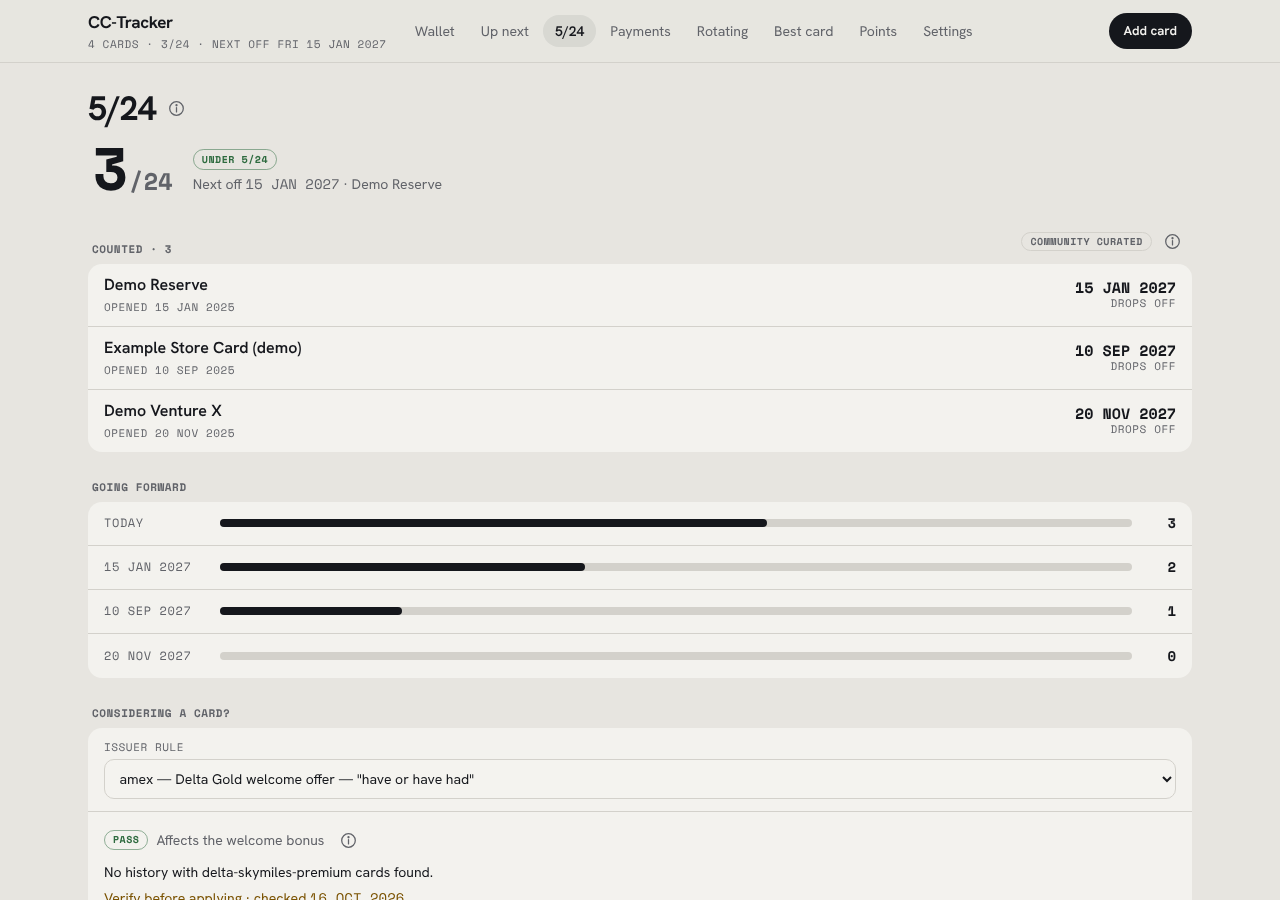
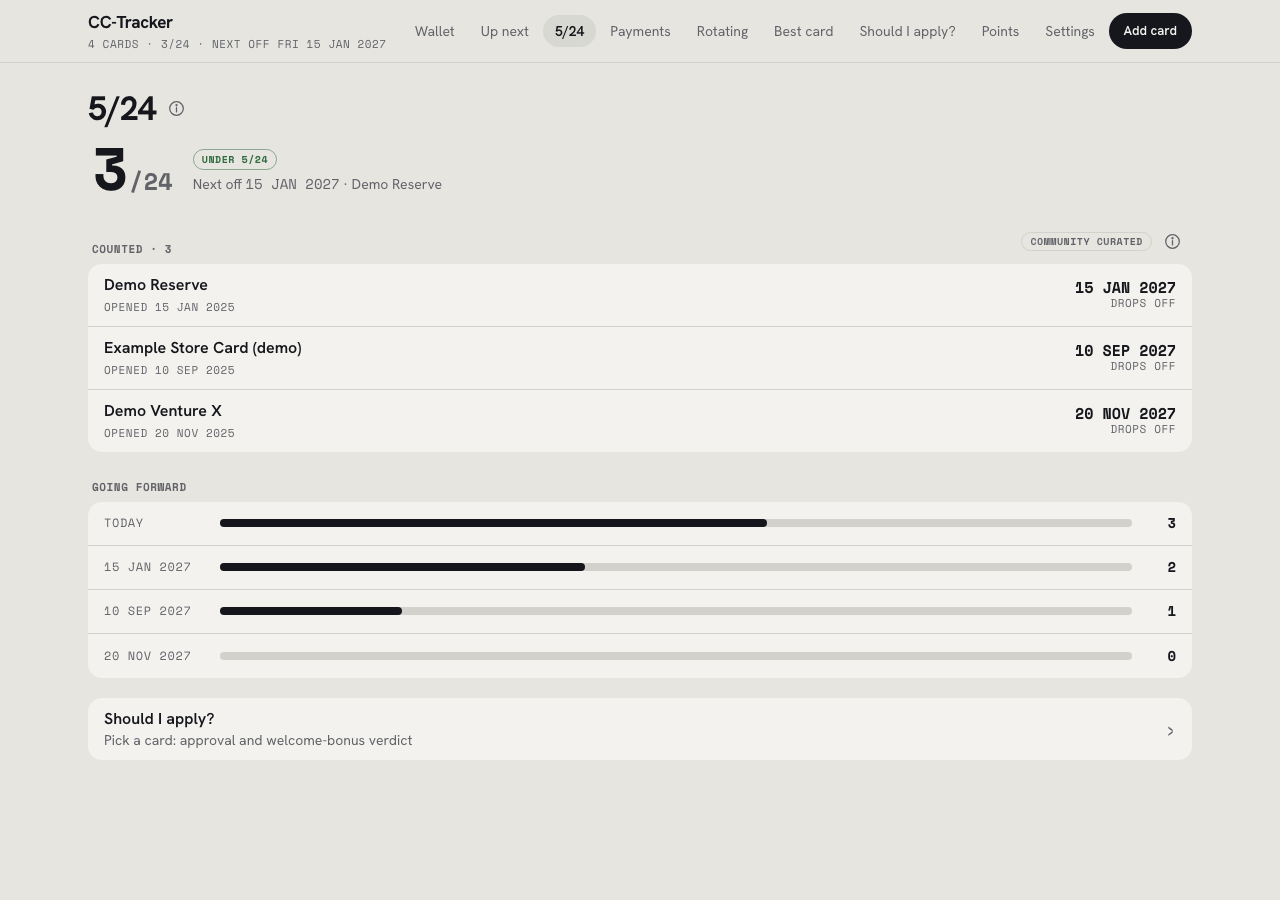
v7: finish phone feedback pass (tests, e2e, screenshots, spec)
- Fix the portal-row unit test: the portal row has no bookedDirect key, so
  toMatchObject({ bookedDirect: undefined }) failed; the logic was right.
- wallet.spec: the phone Wallet has no 5/24 pill (spec §3).
- New e2e/v7.spec.ts (390px, light + dark, clock pinned to Oct 18 2026):
  StubHub used up greys the row (OPENS 1 JAN) and disables log-primary;
  Mark enrolled hides Requires enrollment (undo restores it); /apply verdict
  for Venture X; Best card Airfare shows CSR portal and booked-direct rows.
- contrast.spec: covers /apply and the used-up StubHub row and sheet.
- screenshots.spec: card credit rows, benefit sheet (open and used up), /apply.
- Credit row period line wraps between parts instead of truncating the
  expiry date at 390px; OPENS and the sheet's Opens figure drop the year
  (the period range carries it), so "1 JAN 2027" no longer truncates.
- Spec: sheet keeps Left and shows the period as a line (deliberate
  deviation); Re-enroll items mute via the benefit's Reminders switch.

diff --git a/e2e/v7.spec.ts b/e2e/v7.spec.ts
@@ -1,0 +1,94 @@
+import { expect, test, type Page } from "@playwright/test";
+import { gotoReady, importDemo, sheet, sheetSettled } from "./helpers";
+
+// v7 phone feedback pass (docs/SPEC-v7-phone-feedback.md §6): 390px, both themes. Demo seed only.
+// The browser clock is pinned to Oct 18, 2026, so StubHub's Jul–Dec half is the open one.
+test.use({ viewport: { width: 390, height: 844 }, hasTouch: true });
+
+const overflow = (page: Page) => page.evaluate(() => document.documentElement.scrollWidth - document.documentElement.clientWidth);
+
+for (const scheme of ["light", "dark"] as const) {
+  test.describe(scheme, () => {
+    test.beforeEach(async ({ page }) => {
+      await page.clock.setFixedTime(new Date(2026, 9, 18, 12));
+      await importDemo(page);
+      await page.emulateMedia({ colorScheme: scheme, reducedMotion: "reduce" });
+    });
+
+    test("logging StubHub's remaining amount greys the row until the next half opens", async ({ page }) => {
+      await gotoReady(page, "/cards/demo-reserve");
+      const sub = page.getByTestId("credit-sub-stubhub-credit");
+      await expect(sub).toHaveAttribute("data-state", "open");
+      await expect(sub).toContainText("Benefit ends 31 DEC 2027");
+      await page.getByRole("button", { name: "StubHub / viagogo credit", exact: true }).click();
+      await sheetSettled(page);
+      await sheet(page).getByRole("button", { name: "Log $150" }).click();
+
+      await expect(sub).toHaveAttribute("data-state", "used_upcoming");
+      await expect(sub).toContainText("JAN–JUN 2027");
+      await expect(sub).toContainText("OPENS 1 JAN");
+      await expect(page.getByTestId("remaining-stubhub-credit")).toHaveText("$150");
+      // The sheet can't log into the used-up half; the use stays listed and deletable.
+      const log = sheet(page).getByTestId("log-primary");
+      await expect(log).toBeDisabled();
+      await expect(log).toHaveText(/^Opens 1 Jan/i);
+      await expect(sheet(page).getByRole("radiogroup", { name: "Amount" })).toHaveCount(0);
+      await expect(sheet(page).getByRole("list", { name: "Uses this period" })).toBeVisible();
+      await expect(sheet(page).getByTestId("sheet-left")).toHaveText("$0");
+      expect(await overflow(page)).toBeLessThanOrEqual(0);
+      await page.keyboard.press("Escape");
+      // Greyed rows sort below the open ones.
+      const ids = await page.locator('[data-testid^="credit-sub-"]').evaluateAll((els) => els.map((e) => e.getAttribute("data-state")));
+      expect(ids.indexOf("used_upcoming")).toBeGreaterThan(ids.lastIndexOf("open"));
+    });
+
+    test("Mark enrolled removes Requires enrollment; undo brings it back", async ({ page }) => {
+      await gotoReady(page, "/cards/demo-reserve");
+      const row = page.getByTestId("credit-row-stubhub-credit");
+      await expect(row.getByText("Requires enrollment")).toBeVisible();
+      // The badge and the benefit end line fit the one-line row at 390px.
+      const box = (await row.boundingBox())!;
+      expect(box.x + box.width).toBeLessThanOrEqual(390);
+      expect(await overflow(page)).toBeLessThanOrEqual(0);
+
+      await row.click();
+      await sheetSettled(page);
+      const s = sheet(page);
+      await expect(s.getByText("Requires enrollment")).toBeVisible();
+      await s.getByTestId("enrollment").getByRole("button", { name: "Mark enrolled" }).click();
+      await expect(s.getByTestId("enrollment")).toContainText("Enrolled 18 OCT");
+      await expect(s.getByText("Requires enrollment")).toHaveCount(0);
+      await expect(row.getByText("Requires enrollment")).toHaveCount(0);
+
+      await s.getByRole("button", { name: "undo" }).click();
+      await expect(s.getByText("Requires enrollment")).toBeVisible();
+    });
+
+    test("Should I apply? gives a verdict for Venture X", async ({ page }) => {
+      await gotoReady(page, "/eligibility");
+      await page.getByRole("link", { name: /^Should I apply\?/ }).click();
+      await expect(page).toHaveURL(/\/apply$/);
+      await expect(page.getByRole("heading", { level: 1, name: "Should I apply?" })).toBeVisible();
+      await page.getByTestId("apply-card").selectOption("capital-one-venture-x");
+      // Demo Venture X was opened Nov 2025: the 48-month Venture rule rules out the bonus.
+      await expect(page.getByTestId("verdict-approval")).toBeVisible();
+      await expect(page.getByTestId("verdict-bonus")).toHaveAttribute("data-outcome", "fail");
+      await expect(page.getByTestId("verdict-bonus")).toContainText("Not eligible");
+      await expect(page.getByText(/Verify before applying · rules checked/)).toBeVisible();
+      expect(await overflow(page)).toBeLessThanOrEqual(0);
+    });
+
+    test("Best card Airfare lists CSR via Chase Travel and booked direct as two rows", async ({ page }) => {
+      await gotoReady(page, "/best-card");
+      await page.getByRole("radio", { name: "Airfare" }).click();
+      const portal = page.getByTestId("best-demo-reserve-portal");
+      const off = page.getByTestId("best-demo-reserve-off");
+      await expect(portal).toContainText("Via Chase Travel");
+      await expect(portal).toContainText("8x");
+      await expect(off).toContainText("Booked direct");
+      await expect(off).toContainText("4x");
+      expect((await portal.boundingBox())!.y).toBeLessThan((await off.boundingBox())!.y);
+      expect(await overflow(page)).toBeLessThanOrEqual(0);
+    });
+  });
+}

diff --git a/src/components/BenefitBits.tsx b/src/components/BenefitBits.tsx
@@ -1,5 +1,6 @@
 "use client";
 
+import { Fragment } from "react";
 import type { Benefit } from "@/lib/catalog/schema";
 import { periodRange, shortDate } from "@/lib/domain/dates";
 import type { EnrollmentView } from "@/lib/domain/enrollment";
@@ -26,7 +27,8 @@ export const isGreyed = (cv: CreditView) => cv.state !== "open";
 
 /**
  * The period line, e.g. `SEMIANNUAL · JUL–DEC · EXPIRES 31 DEC`, or for a used-up
- * credit `SEMIANNUAL · JAN–JUN 2027 · OPENS 1 JAN 2027`. `urgent` marks the expiry.
+ * credit `SEMIANNUAL · JAN–JUN 2027 · OPENS 1 JAN`. `urgent` marks the expiry.
+ * The parts are wrap points: callers that allow wrapping get whole parts per line.
  */
 export function PeriodLine({ benefit: b, cv, cycleLabel, today, urgent }: { benefit: Benefit; cv: CreditView; cycleLabel: string; today: string; urgent: boolean }) {
   const p = cv.shown;
@@ -42,7 +44,8 @@ export function PeriodLine({ benefit: b, cv, cycleLabel, today, urgent }: { bene
       break;
     case "used_upcoming":
     case "not_started":
-      tail = `OPENS ${shortDate(cv.opensOn, today)}`;
+      // The range before it already carries the year: `JAN–JUN 2027 · OPENS 1 JAN`.
+      tail = `OPENS ${shortDate(cv.opensOn, range ? cv.opensOn ?? today : today)}`;
       break;
     case "used_final":
       tail = "USED";
@@ -51,11 +54,16 @@ export function PeriodLine({ benefit: b, cv, cycleLabel, today, urgent }: { bene
       tail = "ENDED";
       break;
   }
-  const parts = [cycleLabel.toUpperCase(), cv.state === "ended" || cv.state === "used_final" ? null : range].filter(Boolean);
+  const parts: React.ReactNode[] = [cycleLabel.toUpperCase(), cv.state === "ended" || cv.state === "used_final" ? null : range, tail].filter(Boolean);
+  // Each part stays whole, so a line too long for a 390px row wraps between parts, never inside a date.
   return (
     <>
-      {parts.join(" · ")}
-      {tail && <> · {tail}</>}
+      {parts.map((part, i) => (
+        <Fragment key={i}>
+          {i > 0 && "\u00a0· "}
+          <span className="whitespace-nowrap">{part}</span>
+        </Fragment>
+      ))}
     </>
   );
 }

diff --git a/e2e/screenshots.spec.ts b/e2e/screenshots.spec.ts
@@ -4,7 +4,7 @@ import { gotoReady, importDemo, mouseSwipeLeft, sheet, sheetSettled } from "./he
 
 // Regenerates docs/screenshots/ from the demo seed: `SCREENSHOTS=1 npm run test:e2e -- screenshots`.
 // docs/SPEC-v5-app-pass.md §5: Wallet, Card page, Up next (one row swiped), a sheet with ⓘ open;
-// light + dark, 390px + desktop. Plus 5/24 and the v4.1 skipped views.
+// light + dark, 390px + desktop. Plus 5/24, the v4.1 skipped views and the v7 credit rows, benefit sheet and Should I apply?.
 const out = path.join(__dirname, "..", "docs", "screenshots");
 const LYFT = "Demo Reserve: $10 Lyft in-app credit left";
 
@@ -45,6 +45,24 @@ test.describe("screenshots", () => {
         await sheet(page).getByRole("button", { name: "Source" }).click();
         await shot("sheet");
         await page.keyboard.press("Escape");
+
+        // v7 (docs/SPEC-v7-phone-feedback.md §1–2): credit rows with "Requires enrollment" and
+        // "Benefit ends …", the StubHub sheet, then StubHub used up (greyed, "Opens …").
+        await gotoReady(page, "/cards/demo-reserve");
+        await page.evaluate(() => document.getElementById("credits")!.scrollIntoView({ block: "start" }));
+        await shot("card-credits");
+        await page.getByRole("button", { name: "StubHub / viagogo credit", exact: true }).click();
+        await sheetSettled(page);
+        await shot("benefit-sheet");
+        await sheet(page).getByRole("button", { name: /^Log \$/ }).click();
+        await expect(sheet(page).getByTestId("log-primary")).toBeDisabled();
+        await shot("benefit-sheet-used");
+        await page.keyboard.press("Escape");
+        await expect(sheet(page)).toHaveCount(0);
+        await shot("card-credits-used");
+        await gotoReady(page, "/apply");
+        await page.getByTestId("apply-card").selectOption("capital-one-venture-x");
+        await shot("apply");
 
         // Skipped items (docs/SPEC-v4.1-skip.md): skip the Lyft credit, then "1 skipped · show".
         await gotoReady(page, "/up-next");

diff --git a/e2e/contrast.spec.ts b/e2e/contrast.spec.ts
@@ -10,6 +10,7 @@ const PAGES = [
   "/cards/demo-reserve",
   "/up-next",
   "/eligibility",
+  "/apply",
   "/payments",
   "/rotating",
   "/best-card",
@@ -65,6 +66,23 @@ test.describe("contrast", () => {
         await openSheet("edit sheet", () => page.getByRole("button", { name: "Edit", exact: true }).click());
         await gotoReady(page, "/cards/demo-flex");
         await openSheet("rotating sheet", () => page.getByTestId("rotating-row").click());
+
+        // v7 (docs/SPEC-v7-phone-feedback.md): a verdict on Should I apply?, and StubHub used up
+        // (greyed row, sheet with the disabled "Opens …" pill and the enrollment line).
+        await gotoReady(page, "/apply");
+        await page.getByTestId("apply-card").selectOption("capital-one-venture-x");
+        await expect(page.getByTestId("verdict-bonus")).toBeVisible();
+        await check("/apply (verdict)");
+        await gotoReady(page, "/cards/demo-reserve");
+        await page.getByRole("button", { name: "StubHub / viagogo credit", exact: true }).click();
+        await sheetSettled(page);
+        await sheet(page).getByRole("button", { name: "Log $150" }).click();
+        await expect(sheet(page).getByTestId("log-primary")).toBeDisabled();
+        await check("StubHub sheet (used up)");
+        await page.keyboard.press("Escape");
+        await expect(sheet(page)).toHaveCount(0);
+        await expect(page.getByTestId("credit-sub-stubhub-credit")).toHaveAttribute("data-state", /^used_/);
+        await check("/cards/demo-reserve (StubHub greyed)");
 
         // Up next: a swiped row (Skip + action showing), an item sheet, and the greyed skipped list (docs/SPEC-v4.1-skip.md).
         await gotoReady(page, "/up-next");

diff --git a/e2e/wallet.spec.ts b/e2e/wallet.spec.ts
@@ -130,9 +130,9 @@ test("phone layout at 390px: bottom tabs, large titles, no horizontal scroll", a
 
   const overflow = () => page.evaluate(() => document.documentElement.scrollWidth - document.documentElement.clientWidth);
   expect(await overflow()).toBeLessThanOrEqual(0);
-  // Wallet on phones: large title + 5/24 pill, the top 3 Up next rows, then the stack. No card detail here.
-  await expect(page.getByRole("heading", { level: 1, name: "Wallet" })).toBeVisible();
-  await expect(page.getByTestId("five24-pill")).toHaveText("3/24");
+  // Wallet on phones: large title (no 5/24 pill, docs/SPEC-v7-phone-feedback.md §3), the top 3 Up next rows, then the stack. No card detail here.
+  await expect(page.getByRole("heading", { level: 1, name: "Wallet", exact: true })).toBeVisible();
+  await expect(page.getByTestId("five24-pill")).toHaveCount(0);
   await expect(page.getByTestId("wallet-status")).toBeHidden(); // the long mono header line is desktop-only
   const top = page.getByTestId("up-next-top");
   await expect(top.getByTestId("up-next-item")).toHaveCount(3);

diff --git a/src/components/CardSheets.tsx b/src/components/CardSheets.tsx
@@ -395,7 +395,8 @@ function BenefitSheet({ view, benefit }: { view: HoldingView; benefit: Benefit }
               cv.state === "used_upcoming" || cv.state === "not_started"
                 ? [
                     { label: "Left", value: money(s.active ? s.remaining : 0), testId: "sheet-left" },
-                    { label: "Opens", value: shortDate(cv.opensOn, today) },
+                    // No year: the period line below carries it, and "1 JAN 2027" doesn't fit half a 390px sheet.
+                    { label: "Opens", value: shortDate(cv.opensOn, cv.opensOn ?? undefined) },
                   ]
                 : [
                     { label: "Left", value: money(s.remaining), testId: "sheet-left" },

diff --git a/src/components/CardPage.tsx b/src/components/CardPage.tsx
@@ -271,7 +271,7 @@ function CreditRow({ benefit: b, cv, holding, onOpen }: { benefit: Benefit; cv: 
       }
       sub={
         <span className="font-mono text-[11px] tracking-wider uppercase" data-testid={`credit-sub-${b.id}`} data-state={cv.state}>
-          <span className="block truncate">
+          <span className="block whitespace-normal">
             <PeriodLine benefit={b} cv={cv} cycleLabel={CYCLE_LABEL[b.cycle]} today={today} urgent={expiringSoon} />
           </span>
           {ends && <span className="block truncate">{ends}</span>}

diff --git a/tests/v7.test.ts b/tests/v7.test.ts
@@ -265,7 +265,8 @@ describe("Best card: portal vs. direct rows", () => {
       ["flat", "off", 2],
     ]);
     const [portal, direct] = rank("airfare");
-    expect(portal).toMatchObject({ portalName: "Demo Travel", bookedDirect: undefined });
+    expect(portal).toMatchObject({ portalName: "Demo Travel" });
+    expect(portal.bookedDirect).toBeUndefined();
     expect(direct).toMatchObject({ bookedDirect: true, label: "Flights and hotels booked direct" });
   });
 

diff --git a/docs/SPEC-v7-phone-feedback.md b/docs/SPEC-v7-phone-feedback.md
@@ -29,7 +29,7 @@ Some benefits need enrolling again after a while. The catalog says how long one 
 - **When an enrollment lapses:**
   - the badge comes back as **Re-enroll**;
   - the sheet shows `Enrolled Oct 18, 2025 · lapsed Oct 18, 2026` and **Mark enrolled**;
-  - Up next shows a `Re-enroll` row (title / card / benefit). It's raised `creditLeadDays` before the lapse date and stays until marked. It can be skipped and muted per holding, like rotating activation.
+  - Up next shows a `Re-enroll` row (title / card / benefit). It's raised `creditLeadDays` before the lapse date and stays until marked. It can be skipped like rotating activation. It's muted with the benefit's existing **Reminders** switch (mute kind `benefit`, per holding and benefit), not a separate mute: turning a benefit's reminders off silences both its credit and its Re-enroll rows.
 - **Data:** new Prisma model `BenefitEnrollment { id, holdingId, benefitId, enrolledOn }`. Keep the full history (no unique constraint); the latest one decides the state. Include it in import/export, with a schema version bump; older exports import with no enrollments.
 
 ### 1.4 Benefit end date
@@ -39,7 +39,8 @@ Some benefits need enrolling again after a while. The catalog says how long one 
 
 ### 1.5 Period shown plainly
 - The row sub-line becomes `SEMIANNUAL · JUL–DEC · EXPIRES DEC 31`. Within `creditLeadDays` it is urgent, as today.
-- The sheet's **Expires** stat becomes two stats: **Period** (`Jul–Dec 2026`) and **Expires** (`Dec 31, 2026`).
+- The sheet keeps its two key figures, **Left** and **Expires** (**Opens** while greyed), and shows the period as a line under the figures (`SEMIANNUAL · JUL–DEC · EXPIRES 31 DEC`, or `NEXT: SEMIANNUAL · JAN–JUN 2027 · OPENS 1 JAN` while greyed).
+  - *Deviation (as built, deliberate):* this replaces the original plan of swapping **Left** for **Period** and **Expires** stats.
 
 ## 2. Upcoming periods (greyed out)
 ### 2.1 The problem today
